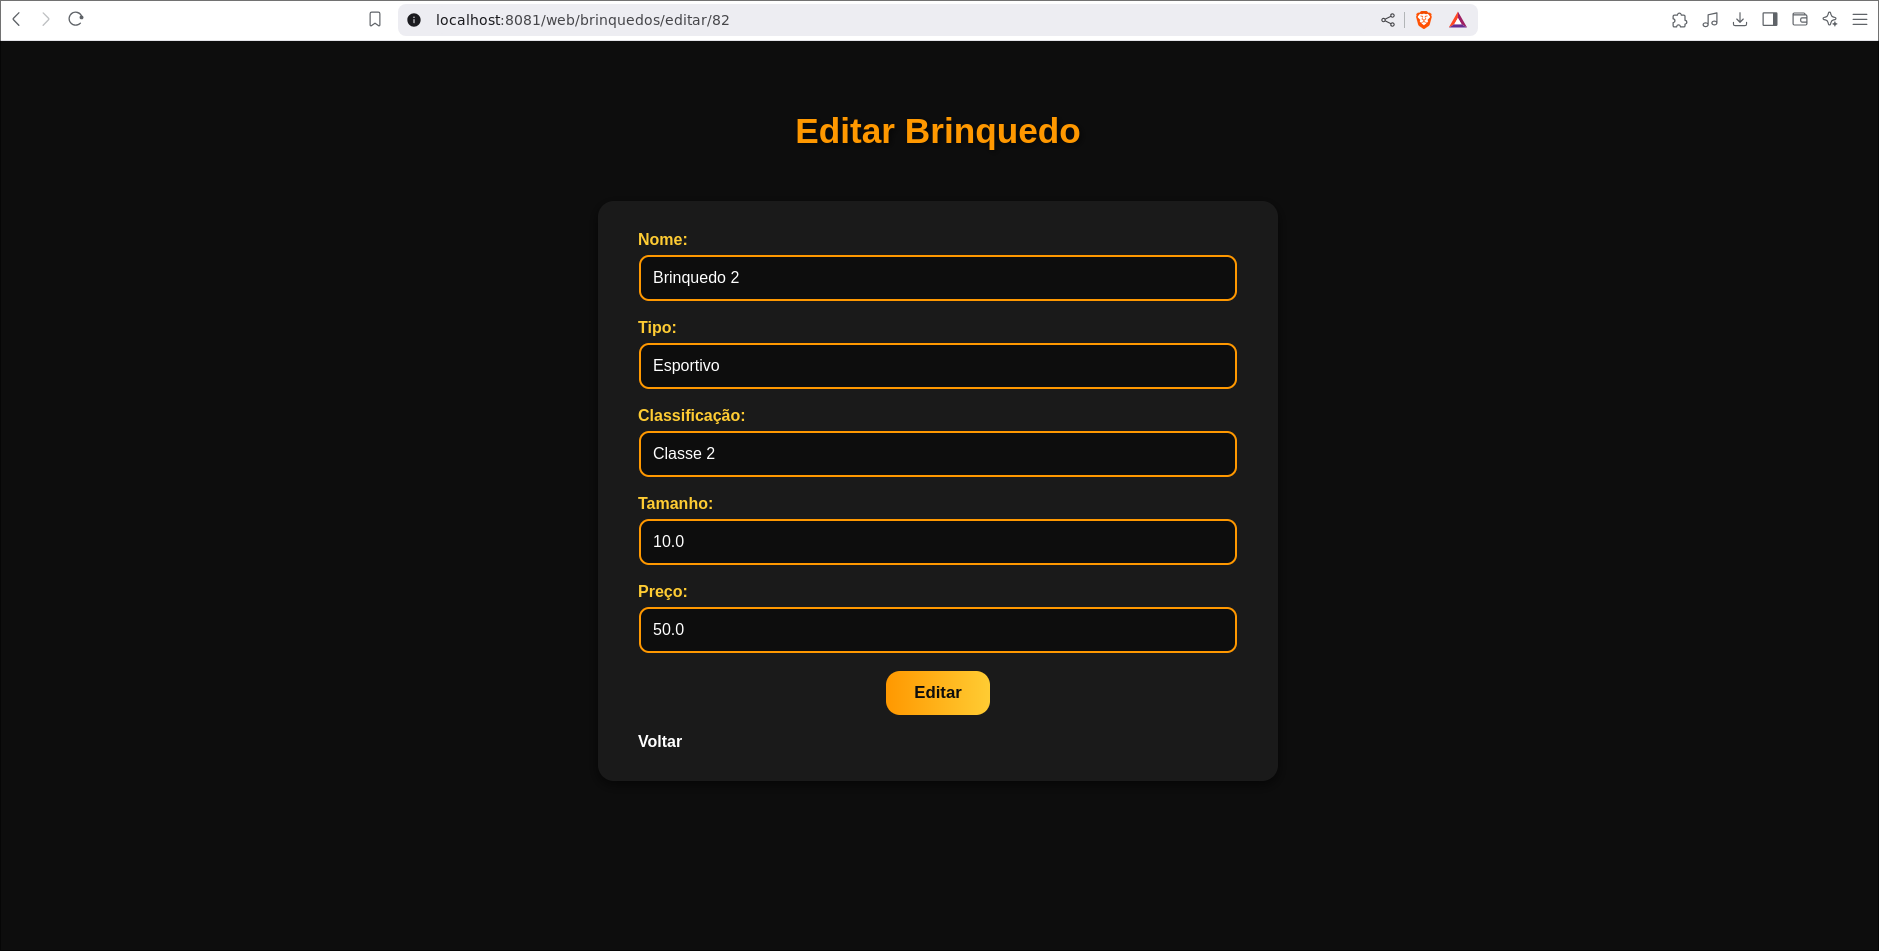
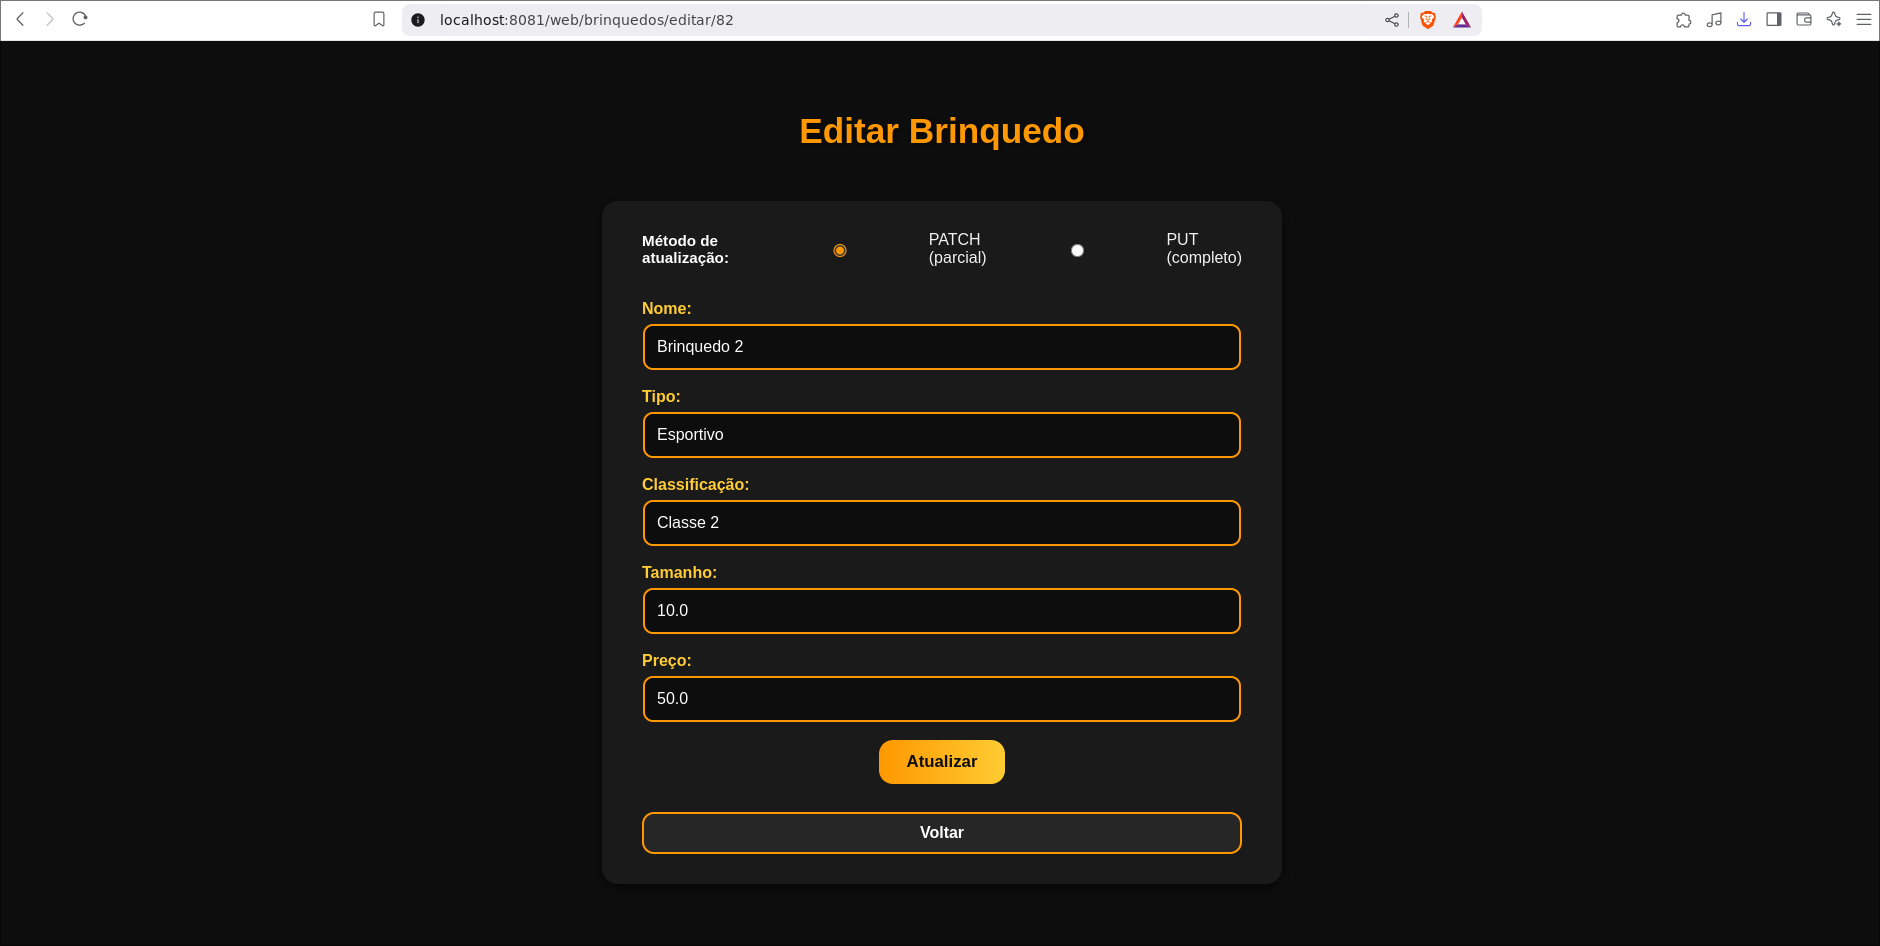
Fix: Arrumando filtragem de metodos

diff --git a/src/main/java/br/com/fiap/toyquilo/configuration/SwaggerConfig.java b/src/main/java/br/com/fiap/toyquilo/configuration/SwaggerConfig.java
@@ -8,6 +8,7 @@ import io.swagger.v3.oas.models.responses.ApiResponses;
 import org.springdoc.core.customizers.OpenApiCustomizer;
 import org.springframework.context.annotation.Bean;
 import org.springframework.context.annotation.Configuration;
+import org.springframework.web.filter.HiddenHttpMethodFilter;
 
 @Configuration
 public class SwaggerConfig {
@@ -53,5 +54,10 @@ public class SwaggerConfig {
         if (!apiResponses.containsKey(code)) {
             apiResponses.addApiResponse(code, new ApiResponse().description(message));
         }
+    }
+
+    @Bean
+    public HiddenHttpMethodFilter hiddenHttpMethodFilter() {
+        return new HiddenHttpMethodFilter();
     }
 }

diff --git a/README.md b/README.md
@@ -241,7 +241,7 @@ Nesta tela são exibidos todos os brinquedos cadastrados no sistema.
 https://exercicio-revisao-java-fiap-pt2.onrender.com/web/brinquedos/novo
 ```
 
-![](./assets/formcriar.png)
+![](./assets/formsalvar.png)
 
 Nesta tela é possível **adicionar um novo brinquedo** ao sistema.
 
@@ -267,6 +267,7 @@ https://exercicio-revisao-java-fiap-pt2.onrender.com/web/brinquedos/editar/{id}
 
 Nesta tela é possível **alterar os dados de um brinquedo já cadastrado**.
 
+- Você pode escolher se vai utilizar o metodo PATCH (altera apenas os campos alterados) ou PUT (altera todos).
 - Os campos vêm preenchidos com os dados atuais do brinquedo.
 - O usuário pode atualizar qualquer informação (**nome, tipo, classificação, tamanho, preço**).
 - Ao salvar, as alterações são refletidas imediatamente na listagem.
